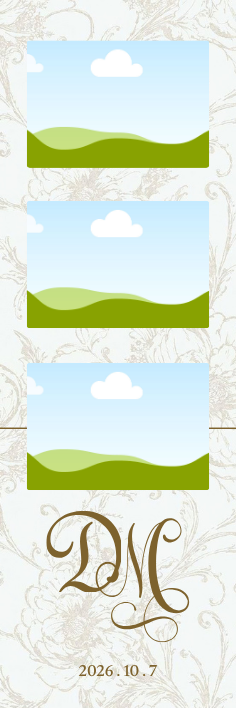
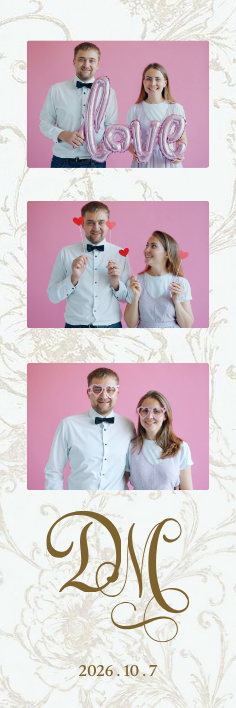
Fix wedding-3 (monogram) template's background seam + swap its photos
The layout problem: the ornate floral background image in this design only
covered roughly the top two-thirds of the card - it stopped short partway
through the third photo frame, leaving a hard horizontal edge where it ended
and the plain page background showed through underneath. Not visible in
Canva's own default view, but obvious once exported/composited at the
card's real proportions. Fixed by extending the background element's height
to cover the full card, in the actual Canva source design.

Also swapped this template's 3 placeholder photos for the ones supplied,
via Replace on the source design's frames (same approach as the other two
wedding templates), re-exported, and bumped assets/templates/wedding-3.png's
?v= cache-busting param to 2.

Claude-Session: https://claude.ai/code/session_011y15o4KncqkJzbr6yPhEa1

diff --git a/index.html b/index.html
@@ -214,7 +214,7 @@
       <div class="op-picker reveal">
         <button type="button" class="op-btn on" data-src="assets/templates/wedding-1.png?v=2" aria-pressed="true"><b data-i18n="m_op_w1_b">Wedding</b><span data-i18n="m_op_w1_s">Lace &amp; navy</span></button>
         <button type="button" class="op-btn" data-src="assets/templates/wedding-2.png?v=2" aria-pressed="false"><b data-i18n="m_op_w2_b">Wedding</b><span data-i18n="m_op_w2_s">Royal red frame</span></button>
-        <button type="button" class="op-btn" data-src="assets/templates/wedding-3.png?v=1" aria-pressed="false"><b data-i18n="m_op_w3_b">Wedding</b><span data-i18n="m_op_w3_s">Monogram</span></button>
+        <button type="button" class="op-btn" data-src="assets/templates/wedding-3.png?v=2" aria-pressed="false"><b data-i18n="m_op_w3_b">Wedding</b><span data-i18n="m_op_w3_s">Monogram</span></button>
         <button type="button" class="op-btn" data-src="assets/templates/business-1.png?v=1" aria-pressed="false"><b data-i18n="m_op_b1_b">Corporate event</b><span data-i18n="m_op_b1_s">Brand colours</span></button>
       </div>
     </div>
